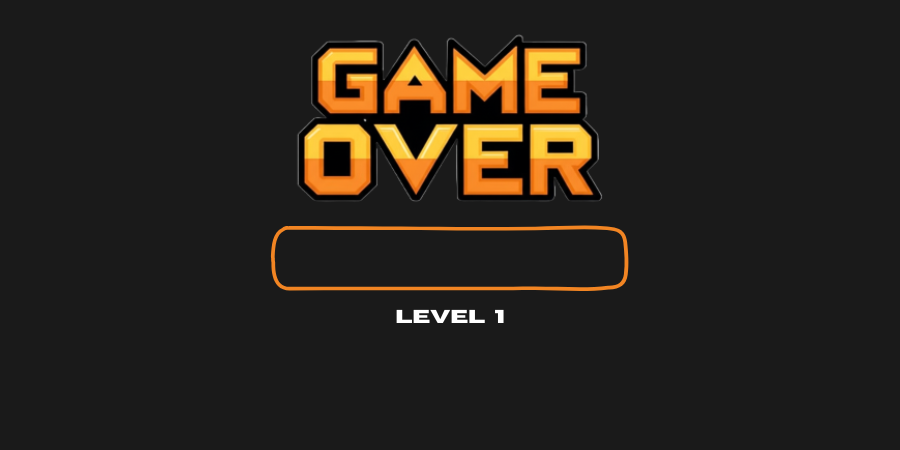
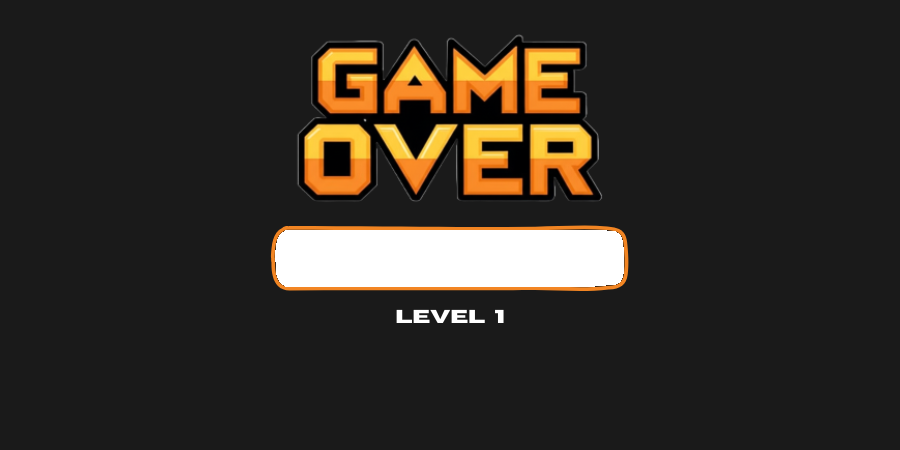
Adiciona barra de progresso a tela de game over

Changed region(s): [[0.28, 0.4978, 0.7156, 0.6533]]

diff --git a/GeometryDash/GameOver.cpp b/GeometryDash/GameOver.cpp
@@ -5,12 +5,22 @@
 
 void GameOver::Init()
 {
+    progress_bar = new Sprite("Resources/util.png");
+    empty_bar = new Sprite("Resources/util.png");
+    progress_bar_color = new Color{ 0, 1, 0, 1 };
+    empty_bar_color = new Color{ 0, 0, 0, 1 };
+
     if (GeometryDash::player->Level() == 0) {
         title = new Sprite("Resources/GameOver1.png");
     }
     else {
         title = new Sprite("Resources/GameOver2.png");
     }
+
+    progress_barX = (275 + 350 * GeometryDash::player->percentage()) - 
+                    progress_bar->Width() / 2.0f;
+
+    OutputDebugString(std::to_string(GeometryDash::player->percentage()).c_str());
 }
 
 void GameOver::Update()
@@ -21,10 +31,16 @@ void GameOver::Update()
 
 void GameOver::Draw()
 {
-    title->Draw(window->CenterX(), window->CenterY(), Layer::BACK);
+    title->Draw(window->CenterX(), window->CenterY(), Layer::FRONT);
+    empty_bar->Draw(window->CenterX(), window->CenterY(), Layer::BACK, 1, 0, *empty_bar_color);
+    progress_bar->Draw(progress_barX, window->CenterY(), Layer::BACK, 1, 0, *progress_bar_color);
 }
 
 void GameOver::Finalize()
 {
+    delete progress_bar;
+    delete progress_bar_color;
+    delete empty_bar;
+    delete empty_bar_color;
     delete title;
 }

diff --git a/GeometryDash/Player.cpp b/GeometryDash/Player.cpp
@@ -48,7 +48,6 @@ void Player::Reset()
     run_animation = false;
     is_alive = true;
     end_level = true;
-    points = 0;
 }
 
 void Player::Reset(int level)
